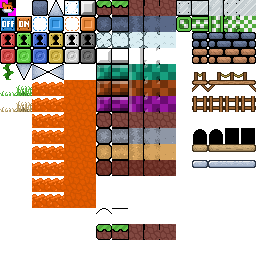
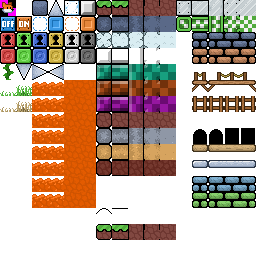
blarg

Changed region(s): [[0.75, 0.6875, 1.0, 0.8125]]

diff --git a/src/game/player.rs b/src/game/player.rs
@@ -207,27 +207,32 @@ impl Player {
         self.allow_climbing(level, resources);
     }
 
-    fn state_jumping(&mut self, level: &Level, resources: &Resources) {
-        let speed = 0.5;
-        self.target_approach = 0.05;
+    fn air_logic(&mut self, speed: f32) {
+        // If we're up against a wall with move_dir left/right, but not holding the key, set move_dir to none
+        if self.nudging_l && self.move_dir == Some(Dir::Left) && !is_key_down(KEY_LEFT)
+        || self.nudging_r && self.move_dir == Some(Dir::Right) && !is_key_down(KEY_RIGHT) {
+            self.move_dir = None;
+        }
+        // If we're moving left/right and not going the right speed, set the target x velocity to it
         if self.move_dir == Some(Dir::Left)  && self.vel.x > -speed { self.target_x_vel = -speed };
         if self.move_dir == Some(Dir::Right) && self.vel.x <  speed { self.target_x_vel =  speed };
+        // If we're against a wall moving left/right, or we've turned mid-air and aren't moving, set the target x velocity to 0
         if self.nudging_l && self.move_dir == Some(Dir::Left)
         || self.nudging_r && self.move_dir == Some(Dir::Right)
         || self.turned_mid_air && self.move_dir == None { self.target_x_vel = 0.0; }
+    }
 
+    fn state_jumping(&mut self, level: &Level, resources: &Resources) {
+        let speed = 0.5;
+        self.target_approach = 0.05;
+        self.air_logic(speed);
         self.allow_climbing(level, resources);
     }
 
     fn state_falling(&mut self, level: &Level, resources: &Resources) {
         let speed = 0.5;
         self.target_approach = 0.05;
-        if self.move_dir == Some(Dir::Left)  && self.vel.x > -speed { self.target_x_vel = -speed };
-        if self.move_dir == Some(Dir::Right) && self.vel.x <  speed { self.target_x_vel =  speed };
-        if self.nudging_l && self.move_dir == Some(Dir::Left)
-        || self.nudging_r && self.move_dir == Some(Dir::Right)
-        || self.turned_mid_air && self.move_dir == None { self.target_x_vel = 0.0; }
-
+        self.air_logic(speed);
         if self.coyote_time < 0.1 {
             self.allow_jumping(self.jump_vel);
         }
@@ -253,6 +258,7 @@ impl Player {
             self.prev_on_ladder = true;
         }
         if self.allow_jumping(self.jump_vel) {
+            self.vel.x *= 3.0;
             self.prev_on_ladder = true;
         }
     }
@@ -329,7 +335,6 @@ impl Player {
             }
         }
 
-
         // Update the state
         self.update_state(level, resources);
 
@@ -339,7 +344,6 @@ impl Player {
             rect.contains(self.pos + CENTER)
         };
         // Check if there are any doors/teleporters to enter
-
         for d in level.doors() {
             if !center_in_tile(d.pos()) {
                 continue;

diff --git a/src/game/level/tile.rs b/src/game/level/tile.rs
@@ -26,6 +26,11 @@ pub enum CheckerBlockColor {
 }
 
 #[derive(PartialEq, Eq, Clone, Copy, Hash, Debug)]
+pub enum BrickColor {
+    Gray, Tan, Blue, Green,
+}
+
+#[derive(PartialEq, Eq, Clone, Copy, Hash, Debug)]
 pub enum Tile {
     Empty, 
 
@@ -53,6 +58,8 @@ pub enum Tile {
     TallGrass,
     DeadShortGrass,
     DeadTallGrass,
+
+    Bricks(BrickColor),
 }
 
 impl From<Tile> for u8 {
@@ -103,6 +110,10 @@ impl From<Tile> for u8 {
             Tile::TallGrass => 42,
             Tile::DeadShortGrass => 43,
             Tile::DeadTallGrass => 44,
+            Tile::Bricks(BrickColor::Gray)  => 45,
+            Tile::Bricks(BrickColor::Tan)   => 46,
+            Tile::Bricks(BrickColor::Blue)  => 47,
+            Tile::Bricks(BrickColor::Green) => 48,
         }
     }
 }
@@ -156,6 +167,10 @@ impl TryFrom<u8> for Tile {
             42 => Ok(Tile::TallGrass),
             43 => Ok(Tile::DeadShortGrass),
             44 => Ok(Tile::DeadTallGrass),
+            45 => Ok(Tile::Bricks(BrickColor::Gray)),
+            46 => Ok(Tile::Bricks(BrickColor::Tan)),
+            47 => Ok(Tile::Bricks(BrickColor::Blue)),
+            48 => Ok(Tile::Bricks(BrickColor::Green)),
             _ => Err(())
         }
     }
@@ -202,6 +217,11 @@ impl Default for TileDataManager {
         // Checker blocks
         for (i, color) in [CheckerBlockColor::Cyan, CheckerBlockColor::Orange, CheckerBlockColor::Purple].iter().enumerate() {
             data.insert(Tile::CheckerBlock(*color), TileData::new(format!("{:?} Checker Block", color),   Some(TileTexture::fixed((i+4)*16+6, TileTextureConnection::Both(TileTextureConnectionKind::None), false)), TileCollision::solid_default(false)));
+        }
+
+        // Bricks
+        for (y, color) in [(2, BrickColor::Gray), (3, BrickColor::Tan), (11, BrickColor::Blue), (12, BrickColor::Green)] {
+            data.insert(Tile::Bricks(color), TileData::new(format!("{:?} bricks", color), Some(TileTexture::fixed(12+y*16, TileTextureConnection::Horizontal(TileTextureConnectionKind::None), false)), TileCollision::solid_default(false)));
         }
 
         // Switch blocks

diff --git a/src/editor/level_view/object_selector.rs b/src/editor/level_view/object_selector.rs
@@ -2,7 +2,7 @@
 
 use macroquad::{color::{Color, WHITE}, color_u8, math::{vec2, Rect, Vec2}, shapes::draw_rectangle, texture::{draw_texture_ex, DrawTextureParams}};
 
-use crate::{game::{entity::EntityKind, level::{things::DoorKind, tile::{render_tile, CheckerBlockColor, LockColor, Tile, TileRenderLayer}, TileDrawKind, TileRenderData}}, resources::Resources, text_renderer::{render_text, Align, Font}, ui::{button::{Button, ButtonState}, Ui}, VIEW_SIZE};
+use crate::{game::{entity::EntityKind, level::{things::DoorKind, tile::{render_tile, BrickColor, CheckerBlockColor, LockColor, Tile, TileRenderLayer}, TileDrawKind, TileRenderData}}, resources::Resources, text_renderer::{render_text, Align, Font}, ui::{button::{Button, ButtonState}, Ui}, VIEW_SIZE};
 
 const BG_COL: Color = color_u8!(255, 255, 255, 100);
 
@@ -44,6 +44,10 @@ impl ObjectSelector {
             Tile::Sand,
             Tile::Cloud,
             Tile::Metal,
+            Tile::Bricks(BrickColor::Gray),
+            Tile::Bricks(BrickColor::Tan),
+            Tile::Bricks(BrickColor::Blue),
+            Tile::Bricks(BrickColor::Green),
             Tile::Checker,
             Tile::CheckerBlock(CheckerBlockColor::Cyan),
             Tile::CheckerBlock(CheckerBlockColor::Orange),
